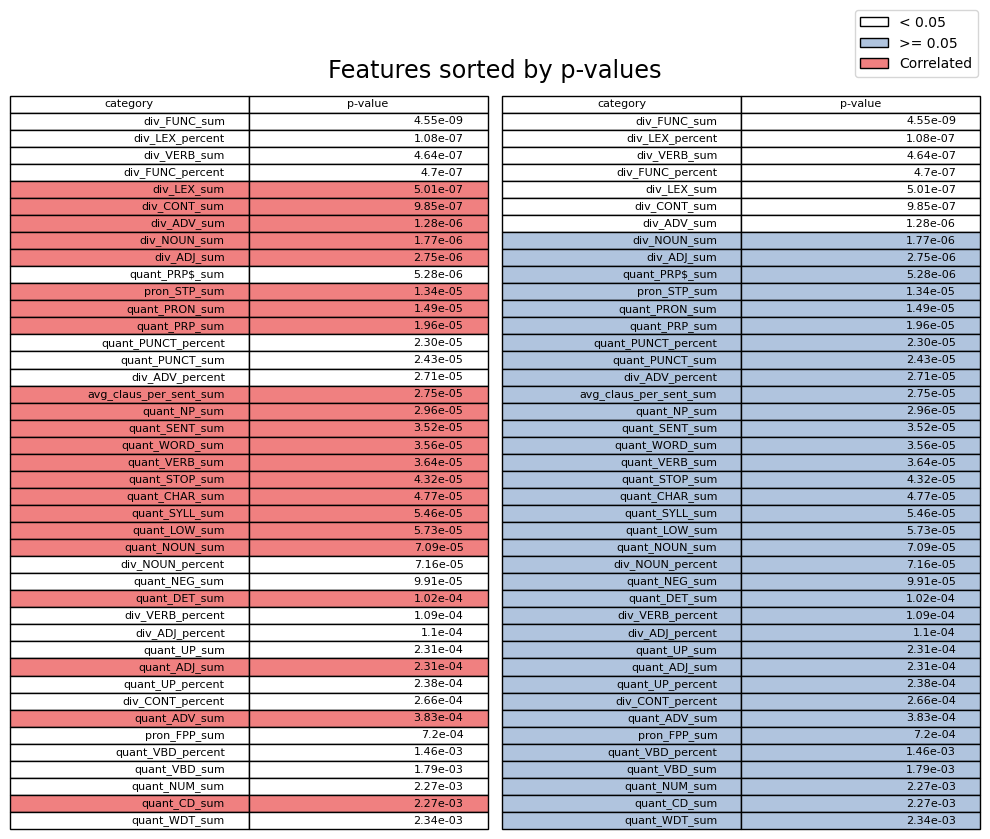
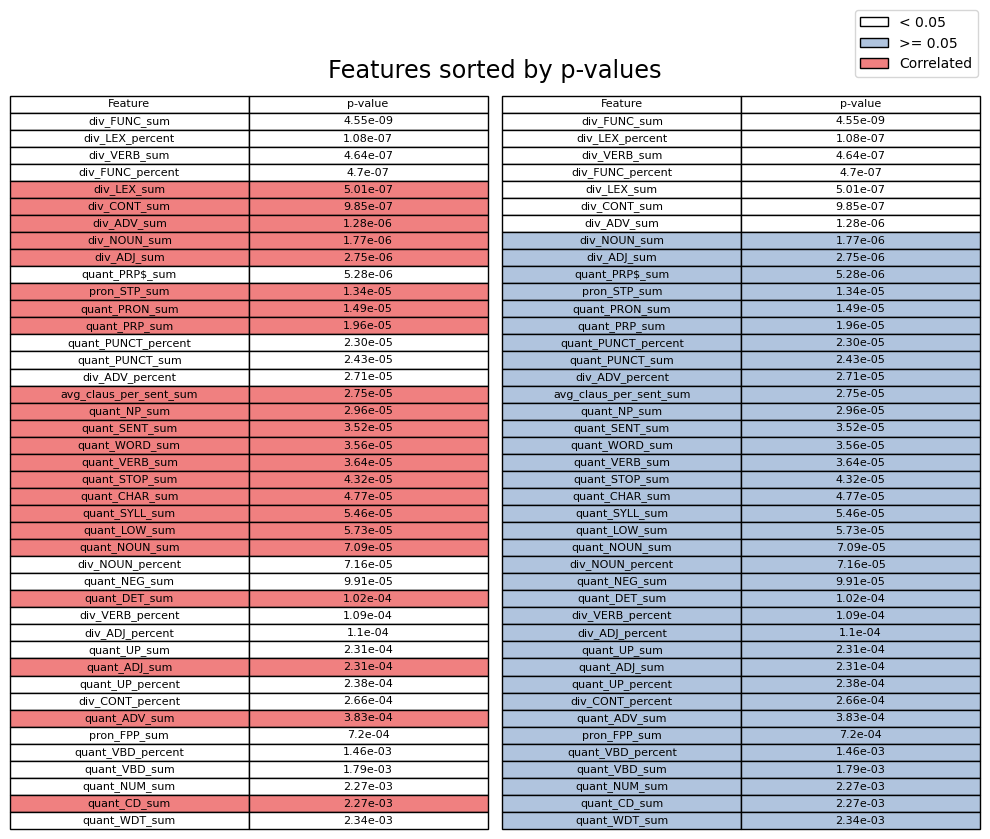
Updates from Overleaf

diff --git a/report/report.tex b/report/report.tex
@@ -302,7 +302,7 @@ BERT (Bidirectional Encoder Representations from Transformers) is a language rep
 \begin{figure}[h]
   \centering
   \includegraphics[width=\textwidth]{img/non_latent_box_plot.png}
-  \caption{Non Latent Box Plot Features}
+  \caption{Box Plot of Non-Latent Box Plot Features, displaying the Median, Interquartile Range (IQR), Minimum, Maximum, does not display Outliers which would inflate plot size. Each subplot contains features with mean $\mu$ in the corresponding powers of 10.}
   \label{box-plot}
 \end{figure}
 
@@ -450,7 +450,7 @@ $D$ is the KL Divergence and $m$ is the \emph{``point-wise mean of p and q''} \c
 \begin{figure}[h]
   \centering
   \includegraphics[width=\textwidth]{img/textual_relevance_3.png}
-  \caption{Metrics Comparison}
+  \caption{Similarity metrics comparison results. Each plot contains the name of the vectorizer, the similarity metric, and $\delta \mu$, JSD (Jensen-Shannon Distance), and p-value when ANOVA is perform with the metrics as dependent variables against the labels which are independent variables. The red distribution is the dependent variable when the label is label \texttt{FAKE}, and the green distribution is the dependent variable when the label is \texttt{REAL}}
   \label{similarity-metrics}
 \end{figure}
 
@@ -823,12 +823,12 @@ In the project proposal, Duke contributed equally with the team. In the literatu
   \centering
   \includegraphics[width=\linewidth]{img/word_count_input_hist.png}
 \end{subfigure}%
-\caption{Word Count Histogram of Input and Context Articles}
+\caption{Word count histogram of input (left) and context articles (right)}
 \end{figure}
 
 \newsection{Non-Latent Features}\label{appendix:non-latent-feats}
  \begin{longtable}[c]{| >{\centering\arraybackslash}p{.2\textwidth} | >{\centering\arraybackslash}p{.3\textwidth} | >{\centering\arraybackslash}p{.13\textwidth} | >{\centering\arraybackslash}p{.25\textwidth} |}
- \caption{Non-Latent Features (Category, Feature Type, Calculation Method, Feature Name)}
+ \caption{Non-latent feature names (far-right column) and their corresponding category, feature type, and calculation method)}
  \label{fig:non-latent-feats-table}
  \endfirsthead
  \endhead
@@ -921,7 +921,7 @@ In the project proposal, Duke contributed equally with the team. In the literatu
 \begin{figure}[H]
   \centering
   \includegraphics[width=0.8\textwidth]{img/non_latent_corr_matrx.png}
-  \caption{Non-Latent Feature Pearson Correlation Matrix}
+  \caption{Pearson correlation matrix of selected non-latent features (which are red and white in Figure \ref{fig:non-latent-feat-prune}). Brighter areas show higher rate of correlation, and vice-versa. An explanation of features is available in Appendix \ref{appendix:non-latent-feats}}
   \label{fig:correlation-matrx}
 \end{figure}
 
@@ -929,7 +929,7 @@ In the project proposal, Duke contributed equally with the team. In the literatu
 \begin{figure}[H]
   \centering
   \includegraphics[width=\textwidth]{img/non_latent_feat_prune.png}
-  \caption{Non-Latent Feature Pruning}
+  \caption{Table of features followed by their p-value when ANOVA is performed with features as dependent variables against labels as the independent variable. Features are sorted by their p-value. The table on the right continues from the last row of the left table. The significance level is $\alpha = 0.05$, features with p-value above the threshold is in blue. Features below the level are subjected to correlation clustering algorithm which keeps features with lowest p-value and remove all their correlated features as outlined in Section \ref{section:non-latent-feat}, selected features are in white, whilst removed features are in red.}
   \label{fig:non-latent-feat-prune}
 \end{figure}
 
